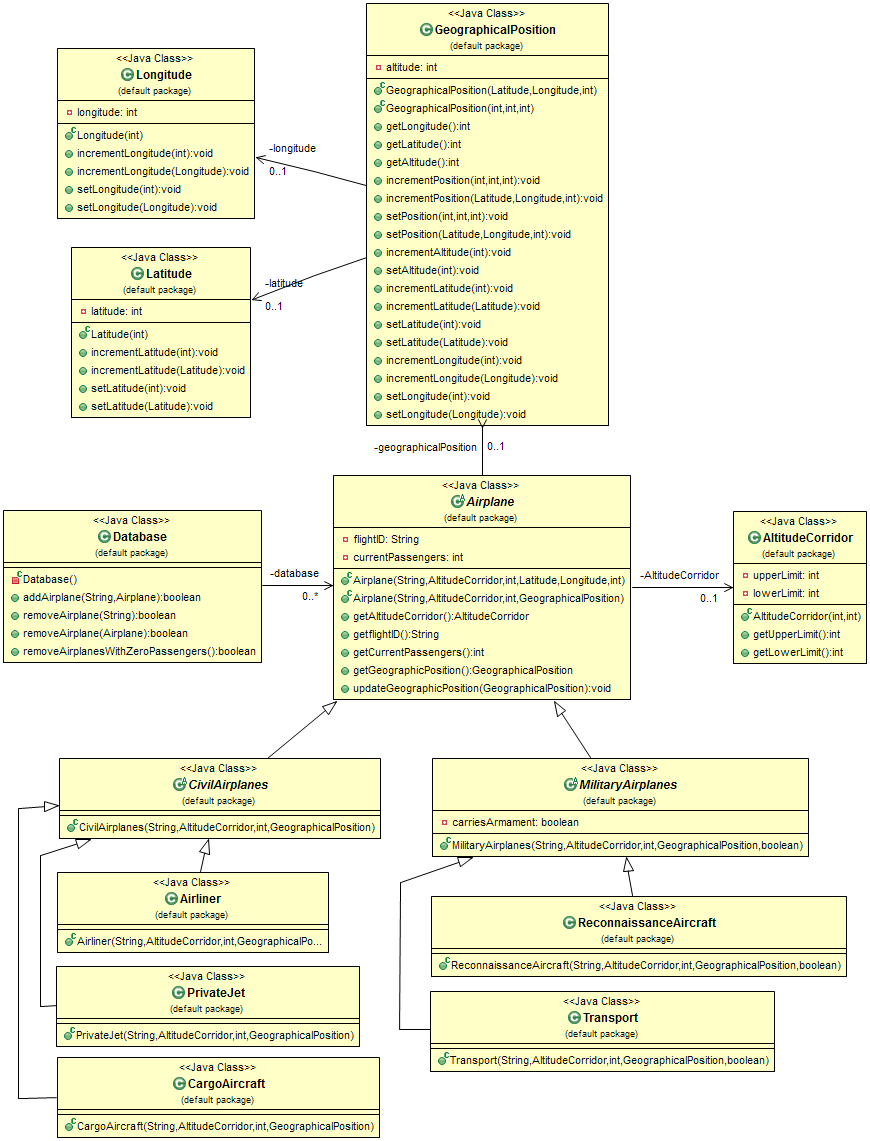
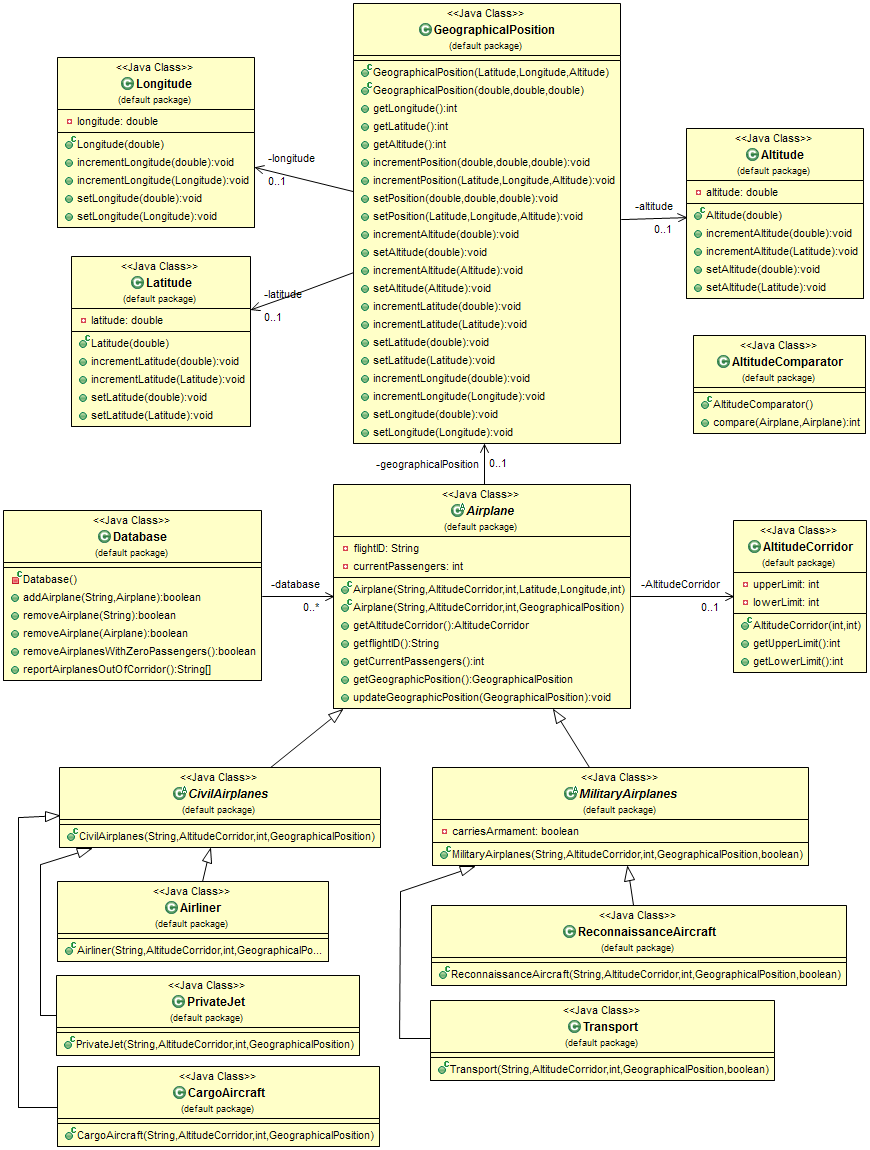
Added a class Altitude

diff --git a/src/GeographicalPosition.java b/src/GeographicalPosition.java
@@ -3,9 +3,9 @@ public class GeographicalPosition {
 	
 	private Latitude latitude;
 	private Longitude longitude;
-	private double altitude;
+	private Altitude altitude;
 	
-	public GeographicalPosition(Latitude lat, Longitude lon, double alt)
+	public GeographicalPosition(Latitude lat, Longitude lon, Altitude alt)
 	{
 		//TODO
 	}
@@ -38,7 +38,7 @@ public class GeographicalPosition {
 		//TODO
 	}
 	
-	public void incrementPosition(Latitude lat, Longitude lon, double alt)
+	public void incrementPosition(Latitude lat, Longitude lon, Altitude alt)
 	{
 		//TODO
 	}
@@ -48,7 +48,7 @@ public class GeographicalPosition {
 		//TODO
 	}
 	
-	public void setPosition(Latitude lat, Longitude lon, double alt)
+	public void setPosition(Latitude lat, Longitude lon, Altitude alt)
 	{
 		//TODO
 	}
@@ -59,6 +59,16 @@ public class GeographicalPosition {
 	}
 	
 	public void setAltitude(double alt)
+	{
+		//TODO
+	}
+	
+	public void incrementAltitude(Altitude alt)
+	{
+		//TODO
+	}
+	
+	public void setAltitude(Altitude alt)
 	{
 		//TODO
 	}

diff --git a/src/Altitude.java b/src/Altitude.java
@@ -1,0 +1,30 @@
+
+public class Altitude {
+	
+	private double altitude;
+	
+	public Altitude(double lat)
+	{
+		//TODO
+	}
+	
+	public void incrementAltitude(double alt)
+	{
+		//TODO
+	}
+	
+	public void incrementAltitude(Latitude alt)
+	{
+		//TODO
+	}
+	
+	public void setAltitude(double alt)
+	{
+		//TODO
+	}
+	
+	public void setAltitude(Latitude alt)
+	{
+		//TODO
+	}
+}
